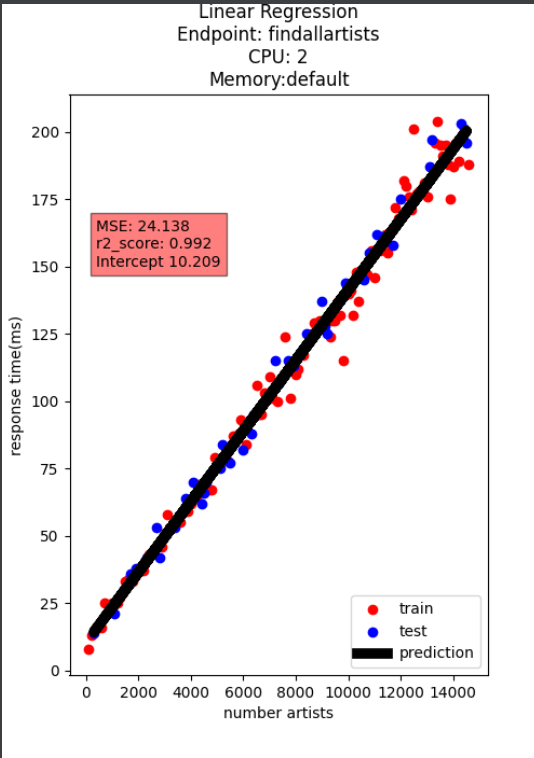
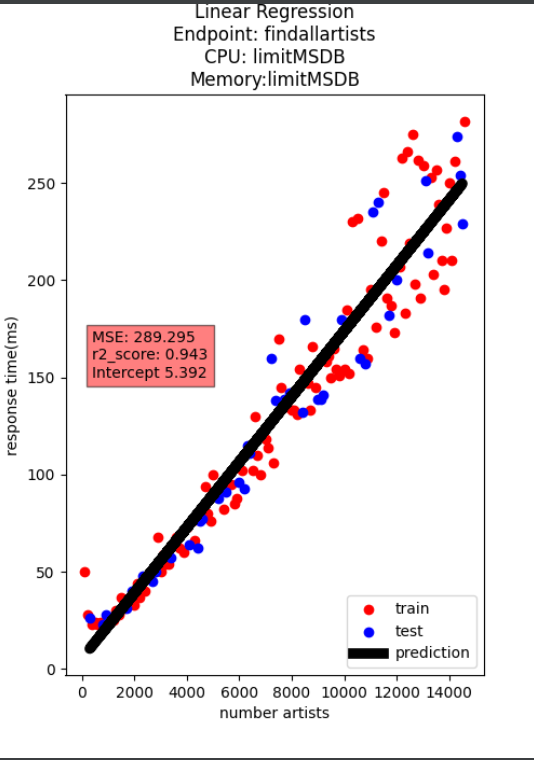
Executed and added results in DEV-LIMMSBD

Changed region(s): [[0.0, 0.0, 0.9288, 1.0], [0.3296, 0.0, 0.7191, 0.1214]]

diff --git a/LoadGenerator/LoadGenerator.py b/LoadGenerator/LoadGenerator.py
@@ -25,8 +25,8 @@ import SpotipyMethod as spMth
 
 
 def main():
-    cpu = "default"
-    mem = "default"
+    cpu = "limitMSDB"
+    mem = "limitMSDB"
 
     # Authentication Method with my credentials to spotify for developers
     sp = spMth.authmethod()
@@ -93,6 +93,7 @@ def collect_metrics_artist(dbmongo, prom, total_artists, cpu, memory):
         metric_mongo = prl.get_resp_time_findallartist(prom, n_artists, cpu, memory)
         list_metrics_mongo.append(metric_mongo)
         x = x + 1
+    random.shuffle(list_metrics_mongo)
     mycol = dbmongo['RT_FindAllArtists']
     mycol.insert_many(list_metrics_mongo)
 

diff --git a/SensitivityAnalyzer/SensitiveAnalyzer.py b/SensitivityAnalyzer/SensitiveAnalyzer.py
@@ -22,8 +22,8 @@ from RegressionLib import scatterplot_model, linear_regression, polynomial_regre
 
 
 def main():
-    cpu = "default"
-    memory = "default"
+    cpu = "limitMSDB"
+    memory = "limitMSDB"
 
     # Connection to the mongodb
     dbmongo = ml.mongo_auth()
